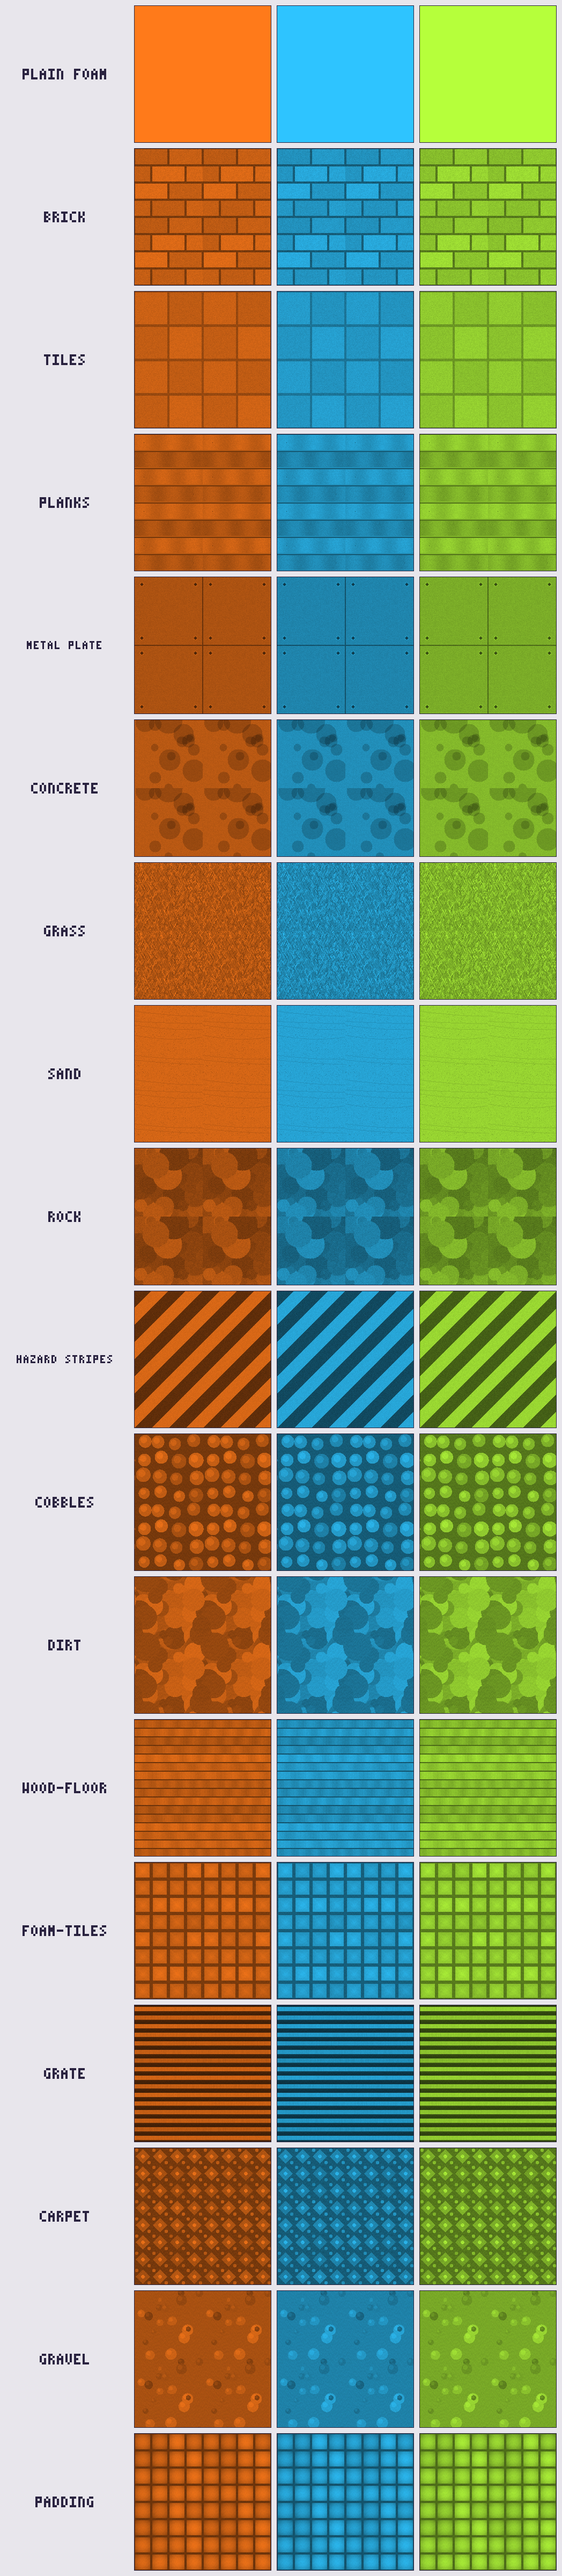
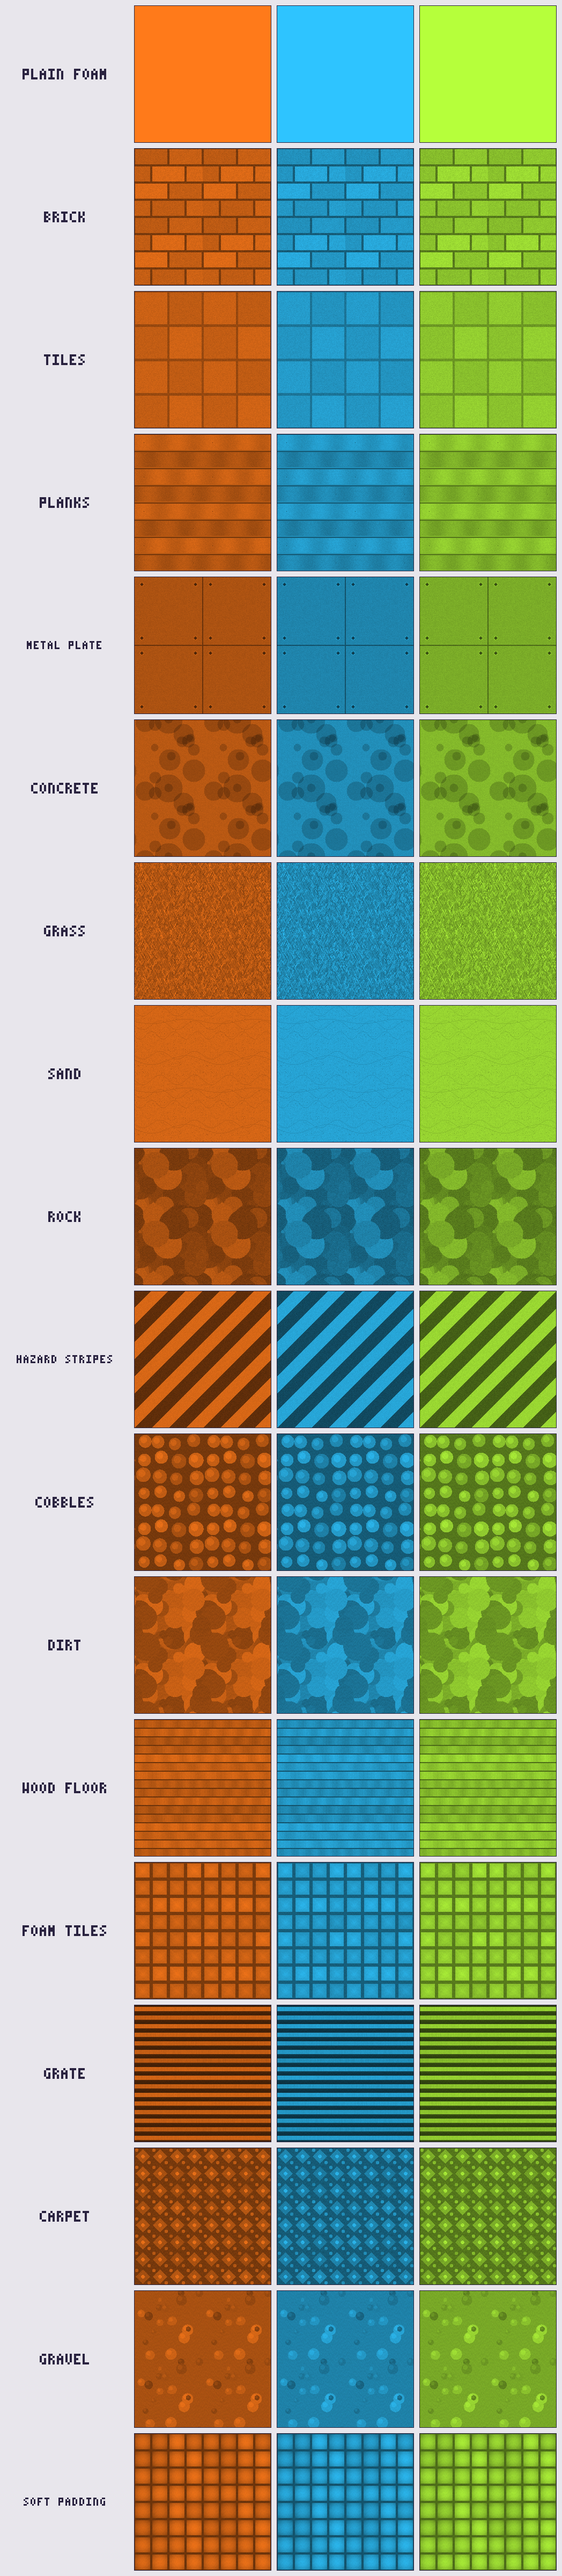
fix(R3-05): the drawn surfaces tile with no seam; the eight new ones in the palette
From R3-05's review of the contact sheet (docs/requests/r3-05.md): concrete
and rock blobs and grass blades wrap at the edges, and the plank grain and
sand streaks repeat a whole number of times across the texture. The eight
generated surfaces join data/surfaces.json (the guard had kept R3-05 out of
that file: the lead's ownership map still gave it to the old ED-36 role).

diff --git a/src/render/surfaces.ts b/src/render/surfaces.ts
@@ -91,6 +91,14 @@ function newImage(w: number, h: number): CanvasImage {
   return { width: w, height: h, data: new Uint8ClampedArray(w * h * 4) };
 }
 
+/** The shortest distance along one axis on a texture that wraps, so a blob
+ *  near an edge continues on the far side and the tile has no seam (R3-05's
+ *  review of the drawn surfaces). */
+function wrapD(a: number, b: number, size: number): number {
+  const d = Math.abs(a - b);
+  return Math.min(d, size - d);
+}
+
 function setPx(img: CanvasImage, x: number, y: number, v: number) {
   const i = (y * img.width + x) * 4;
   img.data[i] = v;
@@ -162,7 +170,10 @@ function paintPlanks(img: CanvasImage, rng: () => number) {
     const v = 165 + Math.round(rng() * 60);
     for (let y = row * ph + 2; y < (row + 1) * ph - 2; y++) {
       for (let x = 0; x < img.width; x++) {
-        const grain = Math.round(Math.sin((x + row * 37) / 9) * 12 + (rng() - 0.5) * 22);
+        // A whole number of waves across the width, so the grain meets
+        // itself at the tile's edge.
+        const waves = Math.max(2, Math.round(img.width / 56));
+        const grain = Math.round(Math.sin((x / img.width) * 2 * Math.PI * waves + row * 1.7) * 12 + (rng() - 0.5) * 22);
         setPx(img, x, y, Math.max(0, Math.min(255, v + grain)));
       }
     }
@@ -219,7 +230,8 @@ function paintConcrete(img: CanvasImage, rng: () => number) {
   for (let i = 0; i < 14; i++) {
     const cx = Math.floor(rng() * img.width), cy = Math.floor(rng() * img.height), r = 6 + Math.floor(rng() * 22);
     for (let y = 0; y < img.height; y++) for (let x = 0; x < img.width; x++) {
-      const d2 = (x - cx) * (x - cx) + (y - cy) * (y - cy);
+      const dx = wrapD(x, cx, img.width), dy = wrapD(y, cy, img.height);
+      const d2 = dx * dx + dy * dy;
       if (d2 <= r * r) {
         const i2 = (y * img.width + x) * 4;
         img.data[i2] = img.data[i2 + 1] = img.data[i2 + 2] = Math.round(img.data[i2]! * 0.82);
@@ -236,8 +248,10 @@ function paintGrass(img: CanvasImage, rng: () => number) {
     const lean = rng() > 0.5 ? 1 : -1;
     const v = 130 + Math.floor(rng() * 110);
     for (let j = 0; j < len; j++) {
-      const yy = y - j, xx = x + Math.round((lean * j) / 2);
-      if (xx >= 0 && xx < img.width && yy >= 0 && yy < img.height) setPx(img, xx, yy, v);
+      // Wrapped, so a blade at an edge carries on at the far side.
+      const yy = (y - j + img.height) % img.height;
+      const xx = (x + Math.round((lean * j) / 2) + img.width) % img.width;
+      setPx(img, xx, yy, v);
     }
   }
   noise(rng, img, 16);
@@ -252,9 +266,11 @@ function paintSand(img: CanvasImage, rng: () => number) {
   }
   for (let i = 0; i < 6; i++) {
     const cy = Math.floor(rng() * img.height), amp = 4 + rng() * 6, period = 40 + rng() * 60;
+    // A whole number of waves across the width, wrapped top to bottom.
+    const waves = Math.max(1, Math.round(img.width / period));
     for (let x = 0; x < img.width; x++) {
-      const y = Math.round(cy + Math.sin(x / period) * amp);
-      if (y >= 0 && y < img.height) setPx(img, x, y, 190);
+      const y = Math.round(cy + Math.sin((x / img.width) * 2 * Math.PI * waves) * amp);
+      setPx(img, x, (y + img.height) % img.height, 190);
     }
   }
 }
@@ -265,8 +281,8 @@ function paintRock(img: CanvasImage, rng: () => number) {
     const cx = Math.floor(rng() * img.width), cy = Math.floor(rng() * img.height), r = 8 + Math.floor(rng() * 26);
     const v = 120 + Math.floor(rng() * 70);
     for (let y = 0; y < img.height; y++) for (let x = 0; x < img.width; x++) {
-      const d2 = (x - cx) * (x - cx) + (y - cy) * (y - cy);
-      if (d2 <= r * r) setPx(img, x, y, v);
+      const dx = wrapD(x, cx, img.width), dy = wrapD(y, cy, img.height);
+      if (dx * dx + dy * dy <= r * r) setPx(img, x, y, v);
     }
   }
   noise(rng, img, 14);
